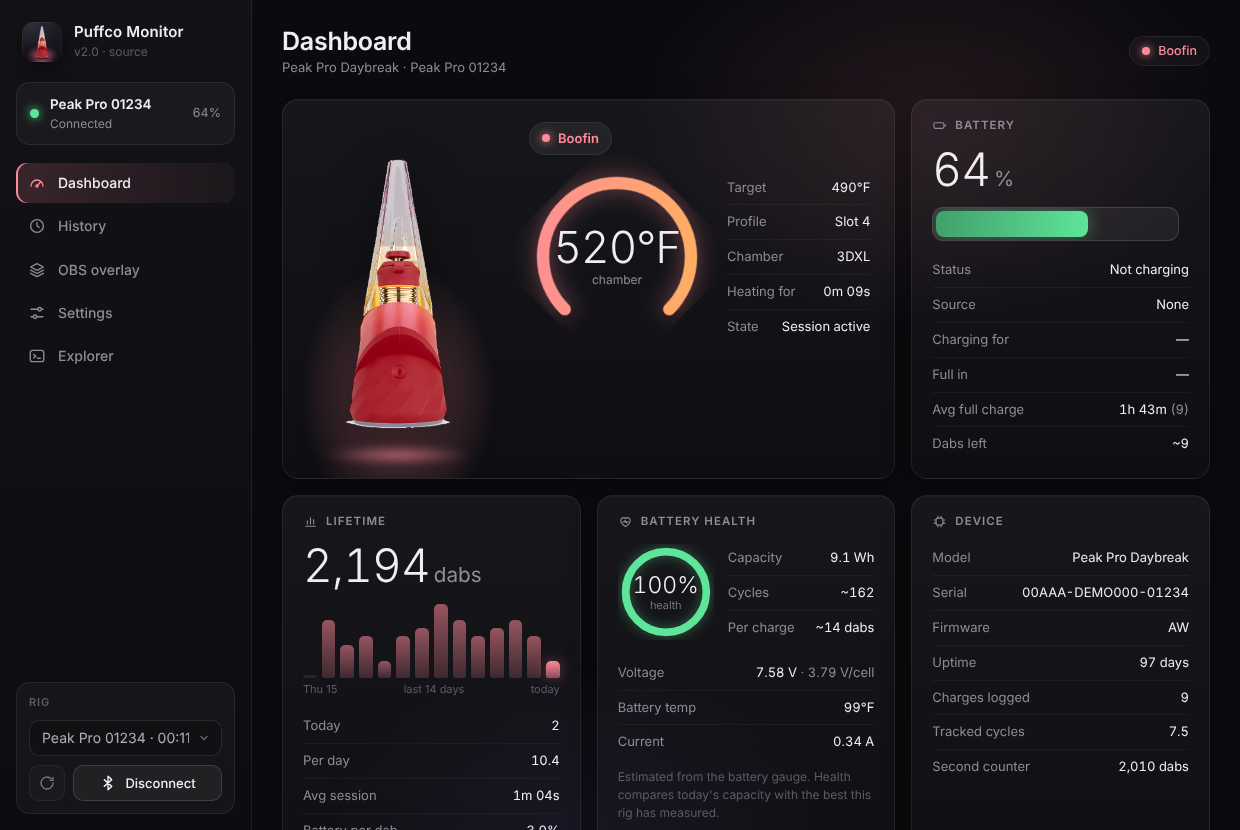
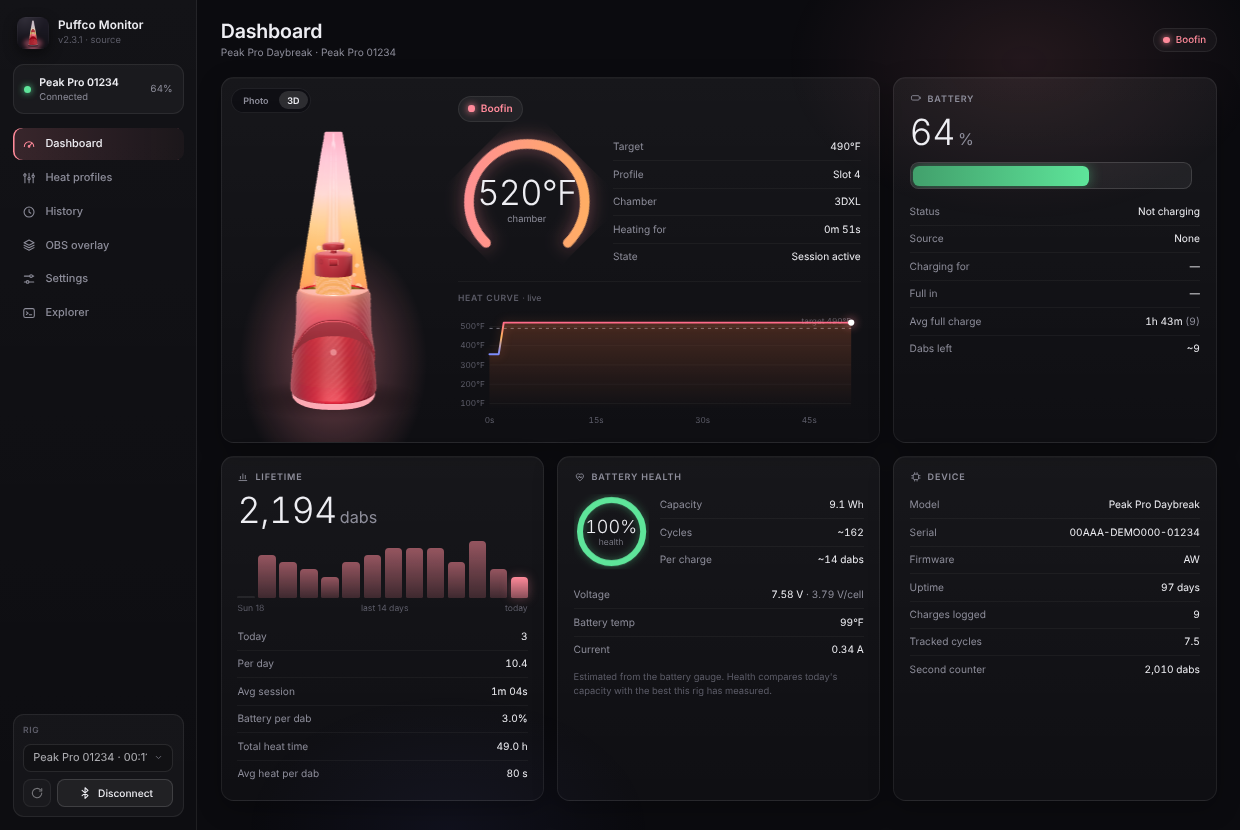
README: redesign with an animated 3D overlay, badges and fresh screenshots
- Animated GIF of the 3D overlay up top, plus badges and quick links
- Features in two columns (on your PC / on stream) with new screenshots of
  the 3D dashboard, heat profiles, 3D motion settings and the 3D overlay states
- Shorter get-started and OBS steps, a table of the 3D options, and an FAQ
  with the details folded away
- Screenshots use a simulated rig with a made-up serial number

Claude-Session: https://claude.ai/code/session_017SyoP2bgspsQVuD6yA3YB8

diff --git a/README.md b/README.md
@@ -1,80 +1,158 @@
 <p align="center">
-  <img src="docs/overlay.png" width="300" alt="The overlay mid-session: the rig glowing with smoke rising out of the glass, over a dark stream background">
+  <img src="docs/overlay-3d.gif" width="300" alt="The 3D overlay mid-session: smoke rolling out of the glass, bubbles rising, the carb cap rocking">
 </p>
 
 <h1 align="center">Puffco Monitor</h1>
 
 <p align="center">
-  A Windows companion app for the <b>Puffco Peak Pro</b> that reads everything the phone app shows (and a few things it doesn't) over Bluetooth,<br>
-  plus an <b>OBS overlay</b> of your rig that heats up, glows and smokes along with the real one.
+  <b>Your Puffco Peak Pro on your PC and on stream.</b><br>
+  A Windows app that reads the rig over Bluetooth, plus an OBS overlay that heats up, glows and smokes along with the real one.
 </p>
 
-![Dashboard mid-session](docs/dashboard.png)
+<p align="center">
+  <a href="../../releases/latest"><img alt="Latest release" src="https://img.shields.io/github/v/release/RamenNuudlss/PuffcoMonitor-ForPc?style=for-the-badge&color=ff8a9a&label=download"></a>
+  <img alt="Windows 10 and 11" src="https://img.shields.io/badge/Windows-10%20%7C%2011-2b2b33?style=for-the-badge&logo=windows11&logoColor=white">
+  <img alt="OBS ready" src="https://img.shields.io/badge/OBS-browser%20source-2b2b33?style=for-the-badge&logo=obsstudio&logoColor=white">
+</p>
 
-## What it does
+<p align="center">
+  <a href="#features">Features</a> ·
+  <a href="#get-started">Get started</a> ·
+  <a href="#add-it-to-obs">Add it to OBS</a> ·
+  <a href="#the-3d-model">The 3D model</a> ·
+  <a href="#faq">FAQ</a>
+</p>
 
-**The app**
-- **Live dashboard:** chamber temperature, target temp, heat profile, how long it's been heating, and the current state. A **Photo | 3D** switch on the rig card shows your rig as a photo or as the animated 3D model, using the same angle and motion settings as the overlay.
-- **Heat curve:** a live chart of the chamber temperature through each heat cycle, against the target. The last one stays up until the next.
-- **Heat profiles:** see the 4 profiles on your rig and edit their name, temperature, time, vapor level and boost. Keep a library of your own profiles on your PC to add, remove and put on the rig whenever you want.
-- **Battery:** charge level, charger type (USB, Qi wireless or Power Dock), how long it's been charging, when it'll be full, your average full-charge time and roughly how many dabs are left.
-- **Battery health:** estimated capacity, charge cycles, dabs per charge, voltage, battery temperature and current.
-- **History:** every charge and session it sees, plus lifetime dabs and a 14-day chart.
-- **Stays connected:** reconnects on its own and can notify you when the rig is ready, fully charged or running low.
-- **Background running:** lives in the system tray, starts with Windows if you want, and only runs one copy at a time.
-- **Explorer:** read any raw value off the rig, for the curious.
+<br>
 
-**The OBS overlay**
-- Your rig, built from a real photo, with switchable editions.
-- Shows standby, heating, and the session (labeled "Boofin" by default). Smoke follows an adjustable breathing rhythm: smoke on the inhale, a clear exhale, then a pause.
-- A charging pad slides in while it charges. The carb cap rocks during a session, bubbles rise in the glass, and there's a floor reflection and glow.
-- **Pop-up mode:** the rig swoops in when something changes and stays up through the whole heat-up and session. The info bar can stay on screen by itself.
-- **3D model style (HD):** swap the photo for a real 3D model of the rig. Pick how it moves in each mode (still, slow or fast spin, sway, float, rock, bounce or wobble) and how it reacts when it starts heating, when it's ready, when it's fully charged and when it connects (spin, double spin, hop, hop and spin, flip, shake or nod). The light ring fills up, races or pulses as it heats, the heater glows, the carb cap rocks, twists, spins or lifts, the rig tips toward the camera on each inhale, bubbles rise in the glass, and a 3D charging pad shows the battery. It also gets 3D entrances: spinning in, twirling in and landing. It needs much more GPU than the photo, so it has its own quality setting.
-- Everything is adjustable from the app with a live preview, including sizes, timings, colors, wording, animations and when it hides.
+![The dashboard mid-session, with the 3D rig, temperature gauge, live heat curve, battery and battery health](docs/dashboard.png)
 
-| | |
-|---|---|
-| ![Charging](docs/charging.png) | ![Overlay settings](docs/overlay-settings.png) |
-| ![History](docs/history.png) | |
+## Features
 
-## Getting started
+<table>
+<tr>
+<td width="50%" valign="top">
 
-1. Download **PuffcoMonitor.exe** from the [Releases](../../releases/latest) page and put it in its own folder. It saves its data next to itself.
-2. Run it. Windows SmartScreen may warn about an unsigned app: click **More info**, then **Run anyway**.
-3. **Close the Puffco phone app** (or turn off your phone's Bluetooth). The rig only accepts one connection at a time.
-4. Click **Scan** and pick your rig, then **Connect**.
+### On your PC
 
-Closing the window keeps it running in the tray. Right-click the tray icon to connect or disconnect, copy the overlay URL, toggle **Start with Windows**, or quit.
+- **Live dashboard:** chamber temperature, target, heat profile, a live heat curve, and what the rig is doing right now. Show the rig as a photo or as the animated 3D model.
+- **Heat profiles:** see and edit all 4 profiles on the rig (name, temperature, time, vapor and boost), and keep your own library of profiles on your PC.
+- **Battery:** charge level, charger type, how long it's been charging, when it'll be full, and roughly how many dabs are left.
+- **Battery health:** estimated capacity, charge cycles, dabs per charge, voltage and temperature.
+- **History:** every charge and session, lifetime dabs and a 14-day chart.
+- **Stays out of the way:** lives in the system tray, reconnects on its own, starts with Windows if you want, and can notify you when the rig is ready, full or low.
 
-The window uses Microsoft Edge WebView2, which comes with Windows 11 and most Windows 10 installs. Without it, the app opens in an Edge app window instead.
+</td>
+<td width="50%" valign="top">
 
-## OBS overlay setup
+### On stream
 
-1. In OBS, add a **Browser** source.
+- **Your rig as an OBS overlay** that shows standby, heating up and your session, with an info bar for temperature and battery.
+- **Smoke with a real rhythm:** a fluid-simulated cloud on each inhale, then a clear exhale and a pause, all timed the way you set it.
+- **Two styles:** a photo of your edition, or an HD 3D model that spins, hops, flips and reacts as things happen.
+- **Pops up when something changes,** swoops in, and stays up through the whole heat-up and session. The info bar can stay on screen by itself.
+- **Charging pad, glows, bubbles and a carb cap that moves.**
+- **Everything is adjustable** with a live preview: sizes, timings, colors, wording, animations and when it hides.
+
+</td>
+</tr>
+</table>
+
+<p align="center">
+  <img src="docs/overlay-3d.png" width="100%" alt="The 3D overlay from the front and the side mid-session, and sitting on its charging pad">
+</p>
+
+<table>
+<tr>
+<td width="50%"><img src="docs/profiles.png" alt="Heat profiles: the 4 profiles on the rig with temperature, time, vapor and boost"></td>
+<td width="50%"><img src="docs/motion.png" alt="The 3D motion settings with the live overlay preview"></td>
+</tr>
+<tr>
+<td align="center"><sub><b>Heat profiles</b>: edit what's on the rig, keep copies on your PC</sub></td>
+<td align="center"><sub><b>3D motion</b>: pick how it moves and reacts, with a live preview</sub></td>
+</tr>
+</table>
+
+## Get started
+
+1. **Download** `PuffcoMonitor.exe` from the [latest release](../../releases/latest) and put it in a folder of its own. It keeps its data next to itself.
+2. **Run it.** The app isn't signed, so Windows SmartScreen may warn you. Click **More info**, then **Run anyway**.
+3. **Close the Puffco phone app,** or turn off your phone's Bluetooth. The rig only takes one connection at a time.
+4. **Click Scan,** pick your rig, then **Connect.**
+
+Closing the window keeps it running in the tray. Right-click the tray icon to connect, copy the overlay link, turn **Start with Windows** on or off, or quit.
+
+## Add it to OBS
+
+1. Add a **Browser** source.
 2. Set the URL to `http://127.0.0.1:8765/overlay`.
-3. Set the width to **1080** and the height to **1800**, then shrink the source into place. It's rendered at 2× so it stays sharp.
+3. Set the width to **1080** and the height to **1800**, then shrink it into place. It renders at twice the size so it stays sharp.
 
-Puffco Monitor has to be running for the overlay to update. Changes you make on the app's **OBS overlay** page show up live.
+Puffco Monitor has to be running for the overlay to move. Anything you change on the app's **OBS overlay** page shows up live.
 
-## The 3D model style
+## The 3D model
 
-On the **OBS overlay** page, set **Rig → Style** to **3D model, HD (high performance)**. You can choose the 3D quality (High, Balanced or Performance), the angle and the camera height there. Everything about how it moves is on the **3D motion** tab. If OBS or your game stutters, try **Balanced** first.
+On the **OBS overlay** page, set **Rig → Style** to **3D model**. The **3D motion** tab then lets you pick:
 
-The model is `models/peak_pro_hd.glb`. To use a different one, drop a `.glb` with the same name into the `models` folder next to the app. Animations find parts by name (`LightRing`, `Glass`, `GlassPercolator`, `CarbCap`, `AtomizerThreads`), and anything missing is skipped. The 3D style is rendered with [three.js](https://threejs.org) (MIT, bundled in `vendor/`).
+| Setting | Your options |
+|---|---|
+| **How it moves in each mode** | still, slow spin, fast spin, sway, float, rock, bounce or wobble, set separately for standby, charging, heating, your session, cooling down and disconnected |
+| **How it reacts** | spin, double spin, hop, hop and spin, flip, shake or nod when it starts heating, when it's ready, when it's fully charged and when it connects |
+| **During a session** | how the carb cap moves, how far the rig tips toward the camera on each inhale, and an optional shake while you hit it |
+| **While it heats** | the light ring fills up around the base, races around it, or pulses |
+| **Camera** | eases in as it heats, or drifts gently like it's handheld |
 
-## Adding your own edition
+The angle, camera height and 3D quality are on the **Rig** tab. The 3D model needs a lot more graphics power than the photo, so if your game or OBS stutters, set **3D quality** to **Balanced** or **Performance**.
 
-On the **OBS overlay** page, click **Add edition** and drop in a photo of your rig. It works best with a straight-on shot from the side or front, on a plain white background. The app cuts the rig out and finds the glass, the light band and the carb cap automatically.
+## Your own edition
 
-You can also run it from the command line:
+On the **OBS overlay** page, click **Add edition** and drop in a photo of your rig: straight on, from the side or the front, on a plain white background. The app cuts the rig out and finds the glass, the light band and the carb cap on its own.
 
-```
-python add_rig.py "photo.png" "Edition Name"
-```
+## FAQ
 
-Each edition is a folder in `rigs/`. If the smoke or glow lands in the wrong spot, adjust the positions in its `rig.json`.
+<details>
+<summary><b>Does it change anything on my rig?</b></summary>
+<br>
+Only when you save a heat profile, and then only that profile's name, temperature, time, vapor and boost. Everything else is read-only, colors are never touched, and editing is locked while the rig is heating.
+</details>
 
-## Running from source
+<details>
+<summary><b>It can't find or connect to my rig</b></summary>
+<br>
+Close the Puffco app on your phone (or turn off your phone's Bluetooth), wake the rig with a press of the button, then hit <b>Scan</b> again. Your PC needs Bluetooth 4.0 or newer.
+</details>
+
+<details>
+<summary><b>The window opens in Edge instead of its own app window</b></summary>
+<br>
+The app window uses Microsoft Edge WebView2, which comes with Windows 11 and most Windows 10 installs. Without it, Puffco Monitor opens in an Edge app window instead and works the same. Installing the <a href="https://developer.microsoft.com/microsoft-edge/webview2/">WebView2 Runtime</a> fixes it.
+</details>
+
+<details>
+<summary><b>Is the 3D model heavy on my GPU?</b></summary>
+<br>
+More than the photo, yes. In OBS it runs at up to 60 fps, and the app's own 3D views pause whenever you can't see them. If you're tight on GPU while gaming, use <b>Balanced</b> or <b>Performance</b> quality, or stick with the photo style.
+</details>
+
+<details>
+<summary><b>Where's my data kept?</b></summary>
+<br>
+
+Everything stays on your PC, next to the app:
+
+| File | What's in it |
+|---|---|
+| `puffco_data.json` | your rig's name and Bluetooth address, charge and session history, saved heat profiles and all settings |
+| `puffco_monitor.log` | errors, for troubleshooting |
+| `rigs/` | photo editions for the overlay |
+| `models/` | the 3D model |
+
+The app only talks to your rig and to your own PC (`127.0.0.1`, port 8765).
+</details>
+
+<details>
+<summary><b>Running it from source, or building the exe yourself</b></summary>
+<br>
 
 You'll need Windows 10 or 11 and Python 3.10 or newer.
 
@@ -83,32 +161,18 @@ pip install -r requirements.txt
 pythonw puffco_monitor.py
 ```
 
-You can also double-click **Start Puffco Monitor.bat**, which installs anything missing first.
+Or double-click **Start Puffco Monitor.bat**, which installs anything missing first. To build the exe, double-click **Build Puffco Monitor.bat** (it runs PyInstaller with `puffco_monitor.spec`).
 
-To build the exe yourself, double-click **Build Puffco Monitor.bat**. It runs PyInstaller with `puffco_monitor.spec`.
+Options: `--minimized` starts in the tray, and `--selftest` checks that everything bundled loads, then writes `selftest.txt`. Overlay settings can also be forced from the URL, like `/overlay?style=3d&fps=30`.
+</details>
 
-Command-line options:
-- `--minimized` starts in the tray.
-- `--startup` is what the Windows startup entry uses.
-- `--selftest` checks that every bundled piece loads, then writes `selftest.txt`.
+<details>
+<summary><b>How does it work?</b></summary>
+<br>
 
-## Your data
-
-Everything stays on your PC, in the same folder as the app:
-
-| File | What's in it |
-|---|---|
-| `puffco_data.json` | Your rig's name and Bluetooth address, charge and session history, saved heat profiles, and all settings |
-| `puffco_monitor.log` | Errors, for troubleshooting |
-| `rigs/` | Overlay editions |
-| `models/` | The 3D model for the overlay's 3D style |
-
-The app only talks to your rig and to `127.0.0.1`. The overlay server listens on port 8765, or the next free port up to 8770.
-
-## How it works
-
-The Peak Pro speaks Puffco's BLE protocol. The app unlocks a session with the rig's seed/key handshake and then only sends **read** commands, except when you save a heat profile. Saving writes that one profile slot (name, temperature, time, vapor and boost) and nothing else. Colors and every other setting are never changed. Editing is locked while the rig is heating. The UI is a local web page (`app.html`) shown in a native window, and the overlay (`overlay.html`) is a WebGL page that OBS loads from the same local server.
+The Peak Pro talks over Bluetooth Low Energy. The app unlocks a session with the rig's seed-and-key handshake, then reads values like temperature, battery and profiles. The window is a local web page (`app.html`), and the overlay (`overlay.html`) is a WebGL page that OBS loads from the same local server. The 3D style is drawn with [three.js](https://threejs.org) (MIT, bundled in `vendor/`) from `models/peak_pro_hd.glb`. Animations find the model's parts by name (`LightRing`, `Glass`, `GlassPercolator`, `CarbCap`, `AtomizerThreads`), so another model with the same part names works too.
+</details>
 
 ## Disclaimer
 
-This is an unofficial fan project. It is not affiliated with, endorsed by or supported by Puffco. "Puffco" and "Peak Pro" are trademarks of their respective owner. Use at your own risk.
+This is an unofficial fan project. It isn't affiliated with, endorsed by or supported by Puffco. "Puffco" and "Peak Pro" are trademarks of their owner. Use at your own risk.
